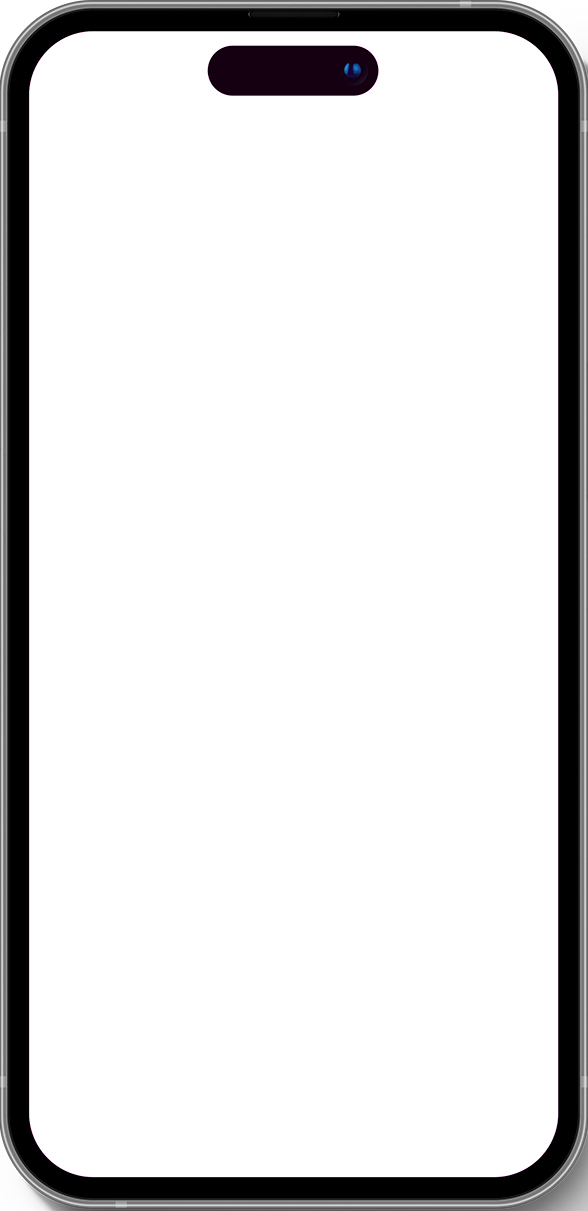
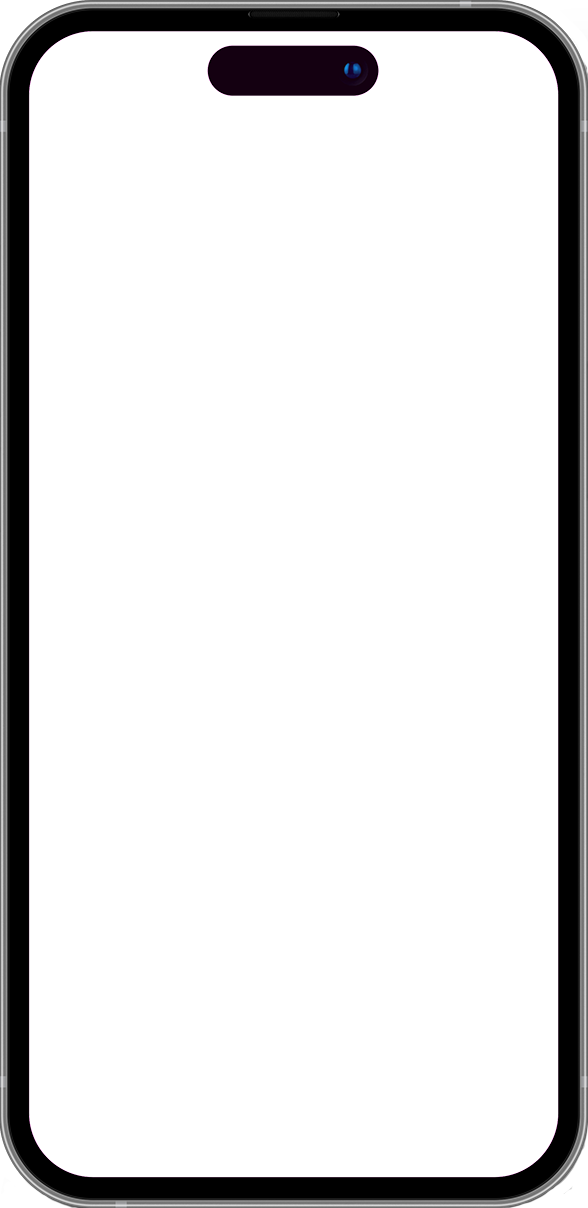
Ipone frame updated

Changed region(s): [[0.0, 0.9189, 1.0, 1.0]]

diff --git a/app.js b/app.js
@@ -1,60 +1,44 @@
 gsap.to(".ts-iphone--1", {
-  y: -400,
-
+  y: -200,
   scrollTrigger: {
     trigger: ".ts-hero-section",
     start: "top top", // when the top of the trigger hits the top of the viewport
-    // end: "+=500", // end after scrolling 500px beyond the start
     scrub: 1, // smooth scrubbing, takes 1 second to "catch up" to the scrollbar
-    // markers: true,
   },
 });
 gsap.to(".ts-iphone--5", {
-  y: -400,
-
+  y: -200,
   scrollTrigger: {
     trigger: ".ts-hero-section",
     start: "top top", // when the top of the trigger hits the top of the viewport
-    // end: "+=500", // end after scrolling 500px beyond the start
     scrub: 1, // smooth scrubbing, takes 1 second to "catch up" to the scrollbar
-    // markers: true,
   },
 });
-
 // 2 , 4
 gsap.to(".ts-iphone--2", {
-  y: -250,
-
+  y: -600,
   scrollTrigger: {
     trigger: ".ts-hero-section",
     start: "top top", // when the top of the trigger hits the top of the viewport
-    // end: "+=500", // end after scrolling 500px beyond the start
     scrub: 1, // smooth scrubbing, takes 1 second to "catch up" to the scrollbar
-    // markers: true,
   },
 });
 gsap.to(".ts-iphone--4", {
-  y: -250,
-
+  y: -600,
   scrollTrigger: {
     trigger: ".ts-hero-section",
     start: "top top", // when the top of the trigger hits the top of the viewport
-    // end: "+=500", // end after scrolling 500px beyond the start
     scrub: 1, // smooth scrubbing, takes 1 second to "catch up" to the scrollbar
-    // markers: true,
   },
 });
 
 // 3
 gsap.to(".ts-iphone--3", {
-  y: -150,
-
+  y: -300,
   scrollTrigger: {
     trigger: ".ts-hero-section",
     start: "top top", // when the top of the trigger hits the top of the viewport
-    // end: "+=500", // end after scrolling 500px beyond the start
     scrub: 1, // smooth scrubbing, takes 1 second to "catch up" to the scrollbar
-    // markers: true,
   },
 });
 

diff --git a/index.html b/index.html
@@ -14,7 +14,7 @@
           <div class="bg"></div>
           <img
             class="ts-iphone__outer"
-            src="./assets/images/hero_hw__f483k70grxay_large.png"
+            src="./assets/images/ipone-14-frame.png"
             alt="..."
           />
         </div>
@@ -24,7 +24,7 @@
           <div class="bg"></div>
           <img
             class="ts-iphone__outer"
-            src="./assets/images/hero_hw__f483k70grxay_large.png"
+            src="./assets/images/ipone-14-frame.png"
             alt="..."
           />
         </div>
@@ -34,7 +34,7 @@
           <div class="bg"></div>
           <img
             class="ts-iphone__outer"
-            src="./assets/images/hero_hw__f483k70grxay_large.png"
+            src="./assets/images/ipone-14-frame.png"
             alt="..."
           />
         </div>
@@ -44,7 +44,7 @@
           <div class="bg"></div>
           <img
             class="ts-iphone__outer"
-            src="./assets/images/hero_hw__f483k70grxay_large.png"
+            src="./assets/images/ipone-14-frame.png"
             alt="..."
           />
         </div>
@@ -54,7 +54,7 @@
           <div class="bg"></div>
           <img
             class="ts-iphone__outer"
-            src="./assets/images/hero_hw__f483k70grxay_large.png"
+            src="./assets/images/ipone-14-frame.png"
             alt="..."
           />
         </div>

diff --git a/styles/index.css b/styles/index.css
@@ -20,7 +20,7 @@ body {
 }
 
 .ts-hero-section {
-  padding: 90px 0;
+  padding: 100px 0 80px;
   display: -ms-grid;
   display: grid;
   -ms-grid-columns: (1fr)[5];
@@ -70,20 +70,16 @@ body {
 .ts-iphone--1 .bg, .ts-iphone--2 .bg, .ts-iphone--3 .bg, .ts-iphone--4 .bg, .ts-iphone--5 .bg {
   background-image: url("../assets/images/fiverr_sample_screen.png");
   background-repeat: no-repeat;
-  background-size: 90%;
+  background-size: 95%;
   background-position: center;
 }
 
-.ts-iphone--2 {
-  margin-top: 150px;
+.ts-iphone--2, .ts-iphone--4 {
+  margin-top: 200px;
 }
 
 .ts-iphone--3 {
   margin-top: 80px;
-}
-
-.ts-iphone--4 {
-  margin-top: 150px;
 }
 
 .temp-section {

diff --git a/styles/index.scss b/styles/index.scss
@@ -20,7 +20,7 @@ body {
   }
 }
 .ts-hero-section {
-  padding: 90px 0;
+  padding: 100px 0 80px;
   display: grid;
   grid-template-columns: repeat(5, 1fr);
   max-width: 1450px;
@@ -71,18 +71,16 @@ body {
     .bg {
       background-image: url("../assets/images/fiverr_sample_screen.png");
       background-repeat: no-repeat;
-      background-size: 90%;
+      background-size: 95%;
       background-position: center;
     }
   }
-  &--2 {
-    margin-top: 150px;
+  &--2,
+  &--4 {
+    margin-top: 200px;
   }
   &--3 {
     margin-top: 80px;
-  }
-  &--4 {
-    margin-top: 150px;
   }
 }
 
